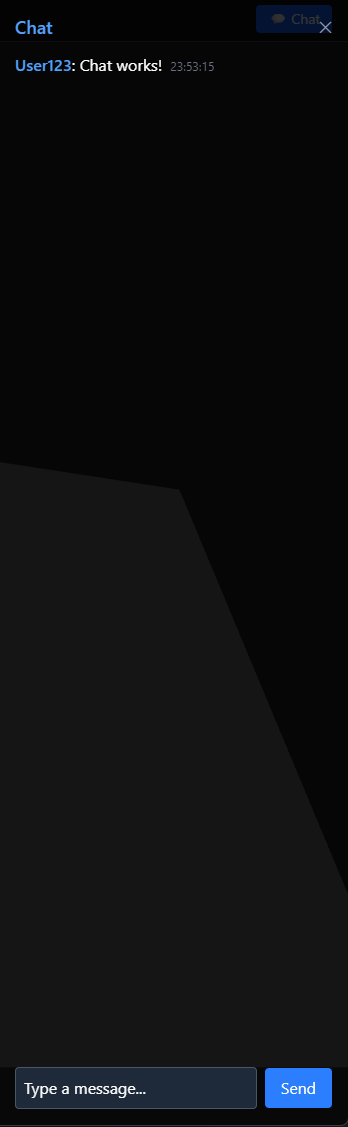
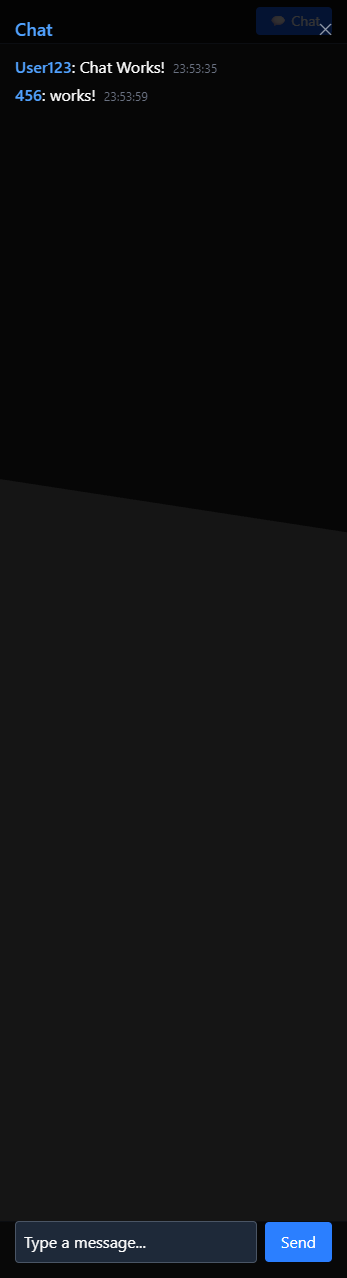
Double message bug solved

diff --git a/src/app/project/project.ts b/src/app/project/project.ts
@@ -161,12 +161,13 @@ export class Project implements AfterViewInit, OnDestroy {
     sendMessage() {
         const text = this.newMessage.value?.trim();
         if (!text) return;
+
         const message = { user: this.userName, text, time: new Date().toLocaleTimeString() };
-        this.messages.update((prev) => [...prev, message]);
-        this.scrollToBottom();
+
+        // 👉 Убираем локальное добавление:
+        // this.messages.update((prev) => [...prev, message]);
 
         this.socket.emit('sendMessage', { projectId: this.projectId, message });
-
         this.newMessage.reset();
     }
 
